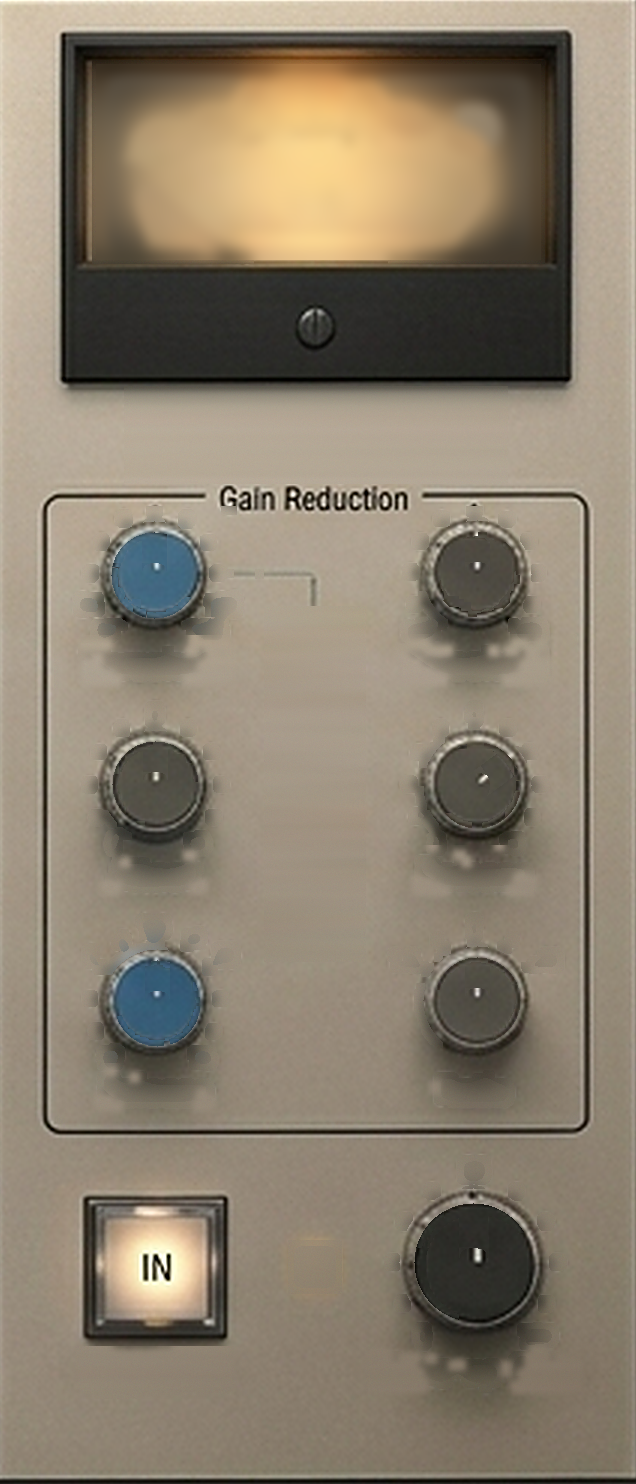
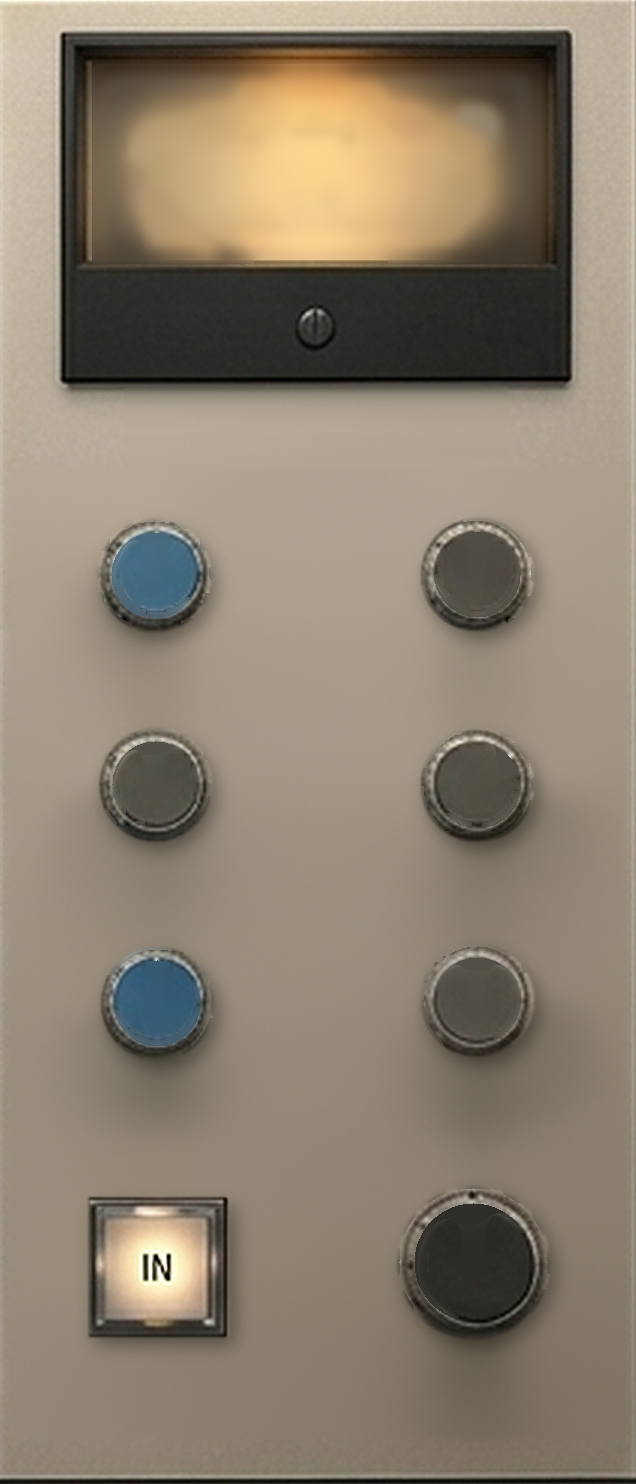
Bus compressor face: clean plate artwork, drawn frame and title, captions clear of the knobs
Claude-Session: https://claude.ai/code/session_01DgN5Pp5mEpwskfyLeK4W68

diff --git a/Source/ui/BusCompConsolePanel.cpp b/Source/ui/BusCompConsolePanel.cpp
@@ -337,9 +337,11 @@ void BusCompConsolePanel::setOutputLevel (float peak)
         outputDb = juce::jmax (juce::Decibels::gainToDecibels (peak, -100.0f), outputDb - 1.5f);   // LEDs fall back gently
 }
 
-void BusCompConsolePanel::showPreview (const std::array<float, 7>& knobValues, float reduction, float outputLevel, bool in)
+void BusCompConsolePanel::showPreview (const std::array<float, 7>& knobValues, float reduction, float outputLevel, bool in,
+                                       const std::array<juce::StringArray, 7>& texts)
 {
     previewing = true;
+    previewTexts = texts;
     previewIn = in;
     for (size_t i = 0; i < numKnobs; ++i)
     {
@@ -392,6 +394,36 @@ void BusCompConsolePanel::paint (juce::Graphics& g)
     g.drawText ("Master Bus", juce::Rectangle<float> (60.0f, 386.0f, 516.0f, 44.0f), juce::Justification::centred, false);
     g.drawText ("Compressor", juce::Rectangle<float> (60.0f, 427.0f, 516.0f, 44.0f), juce::Justification::centred, false);
 
+    // --- The control box, its title, and the line from Threshold to the meters
+    {
+        const juce::Rectangle<float> box { 45.0f, 498.0f, 545.0f, 636.0f };
+        const juce::Rectangle<float> titleGap { 190.0f, 480.0f, 256.0f, 40.0f };
+
+        juce::Path frame;
+        frame.addRoundedRectangle (box, 22.0f);
+        juce::Graphics::ScopedSaveState frameState (g);
+        g.excludeClipRegion (titleGap.toNearestInt());
+        g.setColour (juce::Colours::white.withAlpha (0.45f));
+        g.strokePath (frame, juce::PathStrokeType (2.0f), juce::AffineTransform::translation (1.5f, 2.0f));
+        g.setColour (juce::Colour (0xff3c3b37));
+        g.strokePath (frame, juce::PathStrokeType (3.5f));
+    }
+
+    g.setColour (ink);
+    g.setFont (juce::FontOptions (32.0f, juce::Font::bold));
+    g.drawText ("Gain Reduction", juce::Rectangle<float> (190.0f, 480.0f, 256.0f, 38.0f), juce::Justification::centred, false);
+
+    {
+        juce::Path link;
+        link.startNewSubPath (226.0f, 569.0f);
+        link.lineTo (314.0f, 569.0f);
+        link.lineTo (314.0f, 606.0f);
+        g.setColour (juce::Colours::white.withAlpha (0.4f));
+        g.strokePath (link, juce::PathStrokeType (2.0f), juce::AffineTransform::translation (1.0f, 1.5f));
+        g.setColour (juce::Colour (0xff6c6a63));
+        g.strokePath (link, juce::PathStrokeType (2.5f));
+    }
+
     // --- Knob scales and captions ---------------------------------------------
     for (size_t i = 0; i < numKnobs; ++i)
     {
@@ -407,27 +439,40 @@ void BusCompConsolePanel::paint (juce::Graphics& g)
         }
 
         auto* param = parameterFor (s.control);
-        const auto caption = param != nullptr ? param->getName (20) : console::controlName (s.control);
-
-        g.setColour (ink);
-        g.setFont (juce::FontOptions (s.radius > 60.0f ? 34.0f : 32.0f));
-        g.drawText (caption, juce::Rectangle<float> (s.x - 140.0f, s.y + s.radius + 22.0f, 280.0f, 40.0f),
-                    juce::Justification::centred, false);
-
+        auto caption = param != nullptr ? param->getName (20) : console::controlName (s.control);
+        juce::String lowText, highText;
         if (param != nullptr)
         {
-            g.setFont (juce::FontOptions (22.0f));
-            const auto low  = polar (c, dotRadius + 26.0f, juce::degreesToRadians (-135.0f));
-            const auto high = polar (c, dotRadius + 26.0f, juce::degreesToRadians (135.0f));
-            const auto mid  = polar (c, dotRadius + 22.0f, 0.0f);
-            g.drawText (shortText (param->getText (0.0f, 16)), juce::Rectangle<float> (70.0f, 24.0f).withCentre (low), juce::Justification::centred, false);
-            g.drawText (shortText (param->getText (1.0f, 16)), juce::Rectangle<float> (70.0f, 24.0f).withCentre (high), juce::Justification::centred, false);
-            g.drawText (shortText (param->getText (0.5f, 16)), juce::Rectangle<float> (70.0f, 24.0f).withCentre (mid.translated (0.0f, -2.0f)), juce::Justification::centred, false);
+            lowText = shortText (param->getText (0.0f, 16));
+            highText = shortText (param->getText (1.0f, 16));
+        }
+        else if (previewing && previewTexts[i].size() == 3)
+        {
+            caption = previewTexts[i][0];
+            lowText = previewTexts[i][1];
+            highText = previewTexts[i][2];
+        }
+
+        // Caption under the knob, clear of its dots
+        g.setColour (ink);
+        g.setFont (juce::FontOptions (s.radius > 60.0f ? 32.0f : 30.0f));
+        g.drawText (caption, juce::Rectangle<float> (s.x - 110.0f, s.y + s.radius + 34.0f, 220.0f, 34.0f),
+                    juce::Justification::centred, true);
+
+        // The two ends of the scale, beside the first and last dots
+        if (lowText.isNotEmpty() || highText.isNotEmpty())
+        {
+            g.setColour (ink.withAlpha (0.85f));
+            g.setFont (juce::FontOptions (21.0f));
+            const auto low  = polar (c, dotRadius + 8.0f, juce::degreesToRadians (-135.0f)).translated (-14.0f, 18.0f);
+            const auto high = polar (c, dotRadius + 8.0f, juce::degreesToRadians (135.0f)).translated (14.0f, 18.0f);
+            g.drawText (lowText, juce::Rectangle<float> (72.0f, 24.0f).withCentre (low), juce::Justification::centred, false);
+            g.drawText (highText, juce::Rectangle<float> (72.0f, 24.0f).withCentre (high), juce::Justification::centred, false);
         }
     }
 
-    g.setFont (juce::FontOptions (32.0f));
-    g.drawText ("Bypass/In", juce::Rectangle<float> (inKey.getCentreX() - 120.0f, inKey.getBottom() + 22.0f, 240.0f, 40.0f),
+    g.setFont (juce::FontOptions (30.0f));
+    g.drawText ("Bypass/In", juce::Rectangle<float> (inKey.getCentreX() - 120.0f, inKey.getBottom() + 22.0f, 240.0f, 36.0f),
                 juce::Justification::centred, false);
 
     // --- The meter -------------------------------------------------------------

diff --git a/Tools/make_bus_comp_panel.py b/Tools/make_bus_comp_panel.py
@@ -28,6 +28,7 @@ hsv = cv2.cvtColor(img, cv2.COLOR_BGR2HSV)
 mask = np.zeros(gray.shape, np.uint8)
 local = cv2.GaussianBlur(gray, (0, 0), 9).astype(np.int16)
 marks = gray.astype(np.int16) < local - 22          # darker than what's around it: text, dots
+highlights = gray.astype(np.int16) > local + 14    # embossed dots and letters have a light edge too
 
 def dark_in(rect, limit):
     x0, y0, x1, y1 = rect
@@ -81,8 +82,9 @@ labelRects = []
 pointerAngles = [0, 0, 0, 55, 0, 0, 0]   # degrees clockwise from straight up, as painted
 for (cx, cy, r) in knobs:
     d = np.hypot(xx - cx, yy - cy)
-    ring = (d > r + 2) & (d < r + 50) & marks & (yy > 515)
-    mask[small_marks(ring)] = 255
+    zone = (d > r + 2) & (d < r + 50) & (yy > 515)
+    mask[small_marks(zone & marks)] = 255
+    mask[small_marks(zone & highlights, 300)] = 255
     # label under the knob
     half = 135 if r > 70 else 100
     lx0, ly0, lx1, ly1 = cx - half, cy + r + 4, cx + half, cy + r + 64
@@ -95,7 +97,8 @@ for (cx, cy, r) in knobs:
     # and the whole stroke, with its shading, along the direction it points
     angle = np.radians(pointerAngles[len(labelRects) - 1])
     tip = (int(cx + np.sin(angle) * r * 0.82), int(cy - np.cos(angle) * r * 0.82))
-    cv2.line(mask, (cx, cy), tip, 255, 16 if r < 70 else 20)
+    cv2.line(mask, (cx, cy), tip, 255, 22 if r < 70 else 28)
+    cv2.circle(mask, (cx, cy), 12, 255, -1)       # the pointer's root
 
 # 4. LED ladder: filled below, row by row
 
@@ -121,22 +124,26 @@ img = smooth_fill(img, faceMask, 10)
 img[face[1]:face[3], face[0]:face[2]] = cv2.GaussianBlur(img[face[1]:face[3], face[0]:face[2]], (0, 0), 6)
 mask[face[1]:face[3], face[0]:face[2]] = 0
 
-# Knob caps: cover each pointer with the same cap turned a quarter (or half) turn,
-# so the cap keeps its own texture.
+# Knob caps: fill the old pointer from the cap's own shading around it.
+capMask = np.zeros_like(mask)
 for (cx, cy, r) in knobs:
-    cap = np.zeros_like(mask)
-    cv2.circle(cap, (cx, cy), int(r * 0.8), 255, -1)
-    todo = (cap > 0) & (mask > 0)
-    for angle in (90, -90, 180):
-        if not todo.any():
-            break
-        M = cv2.getRotationMatrix2D((cx, cy), angle, 1.0)
-        turned = cv2.warpAffine(img, M, (img.shape[1], img.shape[0]))
-        turnedMask = cv2.warpAffine(mask, M, (img.shape[1], img.shape[0]))
-        use = todo & (turnedMask == 0)
-        img[use] = turned[use]
-        todo &= ~use
-    mask[cap > 0] = 0
+    cv2.circle(capMask, (cx, cy), int(r * 0.8), 255, -1)
+capMask &= mask
+for (cx, cy, r) in knobs:
+    disc = np.zeros_like(mask)
+    cv2.circle(disc, (cx, cy), int(r * 0.8), 255, -1)
+    w = ((disc > 0) & (capMask == 0)).astype(np.float32)
+    est = np.zeros(img.shape, np.float32)
+    done = np.zeros(mask.shape, bool)
+    for sg in (4, 9, 20, 60):
+        num = cv2.GaussianBlur(img.astype(np.float32) * w[..., None], (0, 0), sg)
+        den = cv2.GaussianBlur(w, (0, 0), sg)
+        ok = (den > (0.2 if sg < 60 else 1e-4)) & ~done
+        est[ok] = (num[ok] / den[ok][..., None])
+        done |= ok
+    target = (disc > 0) & (capMask > 0)
+    img[target] = np.clip(est[target], 0, 255).astype(np.uint8)
+mask[capMask > 0] = 0
 
 clean = smooth_fill(img, mask, 6)
 
@@ -167,6 +174,45 @@ for i, (lx0, lx1, ly0, ly1) in enumerate(labelRects):
     fill_rows(clean, lx0, lx1, ly0, ly1, 10 + i, True)   # knob captions
 fill_rows(clean, 60, 262, 1352, 1405, 20, True)   # "Bypass/In"
 fill_rows(clean, 268, 370, 612, 968, 2)     # LED ladder
+
+# --- Rebuild the lower panel cleanly: a smooth plate, soft knob shadows, then the
+#     knobs and the IN key from the picture. Frame, dots, text and LEDs are drawn by the app.
+top, bottom, left, right = 474, 1445, 14, 630
+keep = np.zeros(gray.shape, np.uint8)
+for (cx, cy, r) in knobs:
+    cv2.circle(keep, (cx, cy), int(r * 1.02), 255, -1)
+cv2.rectangle(keep, (93, 1203), (232, 1342), 255, -1)       # IN key
+
+plate = clean.astype(np.float32)
+w = np.ones(gray.shape, np.float32)
+w[keep > 0] = 0
+w[:top] = 0
+w[bottom:] = 0
+# leave out anything that isn't plain plate: text, frame, dots, smudges
+cg = cv2.cvtColor(clean, cv2.COLOR_BGR2GRAY).astype(np.int16)
+cl = cv2.GaussianBlur(cg.astype(np.float32), (0, 0), 15)
+w[np.abs(cg - cl) > 6] = 0
+w = cv2.erode(w, np.ones((7, 7), np.uint8))
+num = cv2.GaussianBlur(plate * w[..., None], (0, 0), 30)
+den = cv2.GaussianBlur(w, (0, 0), 30)[..., None]
+smooth = num / np.maximum(den, 1e-3)
+noise = np.random.default_rng(3).normal(0, 1.2, smooth.shape).astype(np.float32)
+smooth = cv2.GaussianBlur(smooth, (0, 0), 4) + noise
+
+# Soft shadow under each knob and the key (light from the top left)
+shade = np.zeros(gray.shape, np.float32)
+for (cx, cy, r) in knobs:
+    cv2.circle(shade, (cx + 5, cy + 9), int(r * 1.0), 1.0, -1)
+cv2.rectangle(shade, (99, 1213), (238, 1350), 1.0, -1)
+shade = cv2.GaussianBlur(shade, (0, 0), 9) * 0.38
+smooth = smooth * (1.0 - shade[..., None])
+
+region = np.zeros(gray.shape, np.float32)
+region[top:bottom, left:right] = 1.0
+region = cv2.GaussianBlur(region, (0, 0), 3)
+keepSoft = cv2.GaussianBlur((keep > 0).astype(np.float32), (0, 0), 1.2)
+alpha = (region * (1.0 - keepSoft))[..., None]
+clean = np.clip(clean.astype(np.float32) * (1 - alpha) + smooth * alpha, 0, 255).astype(np.uint8)
 
 # Trim to the panel itself (the mockup's neighbours sit at the edges).
 x0, y0, x1, y1 = 4, 6, 640, 1490

diff --git a/Tools/Snapshots.cpp b/Tools/Snapshots.cpp
@@ -58,7 +58,12 @@ public:
             auto& console = main.mixer.getConsolePanel();
             console.setCandidates ({ d });
             main.mixer.resized();
-            console.showPreview ({ 0.62f, 1.0f, 0.4f, 0.75f, 0.0f, 0.5f, 0.35f }, 4.0f, 0.7f, true);
+            // Names and ranges as UA's plugin reports them
+            console.showPreview ({ 0.62f, 1.0f, 0.4f, 0.75f, 0.0f, 0.5f, 0.35f }, 4.0f, 0.7f, true,
+                                 { juce::StringArray { "Thresh", "-15.0", "15.0" }, juce::StringArray { "Mix", "0%", "100%" },
+                                   juce::StringArray { "Attack", "0.1", "30" }, juce::StringArray { "Release", "0.1", "Auto" },
+                                   juce::StringArray { "SC Filter", "Off", "500" }, juce::StringArray { "Ratio", "2:1", "10:1" },
+                                   juce::StringArray { "Make Up", "0.0", "15.0" } });
             pump (main, 200);
             save (main, "mixer-console.png");
             save (console, "console-panel.png", 2.0f);

diff --git a/Source/ui/BusCompConsolePanel.h b/Source/ui/BusCompConsolePanel.h
@@ -53,7 +53,8 @@ public:
     std::function<void (juce::ValueTree insert)> onOpenPluginWindow;
 
     /** For the snapshot tool: shows the panel as if a plugin were running. */
-    void showPreview (const std::array<float, 7>& knobValues, float reductionDb, float outputLevel, bool in);
+    void showPreview (const std::array<float, 7>& knobValues, float reductionDb, float outputLevel, bool in,
+                      const std::array<juce::StringArray, 7>& texts = {});
 
     void paint (juce::Graphics&) override;
     void resized() override;
@@ -93,6 +94,7 @@ private:
 
     float needleDb = 0.0f, reductionDb = 0.0f, outputDb = -100.0f;
     bool previewing = false, previewIn = false;
+    std::array<juce::StringArray, 7> previewTexts;
 };
 
 } // namespace riff
